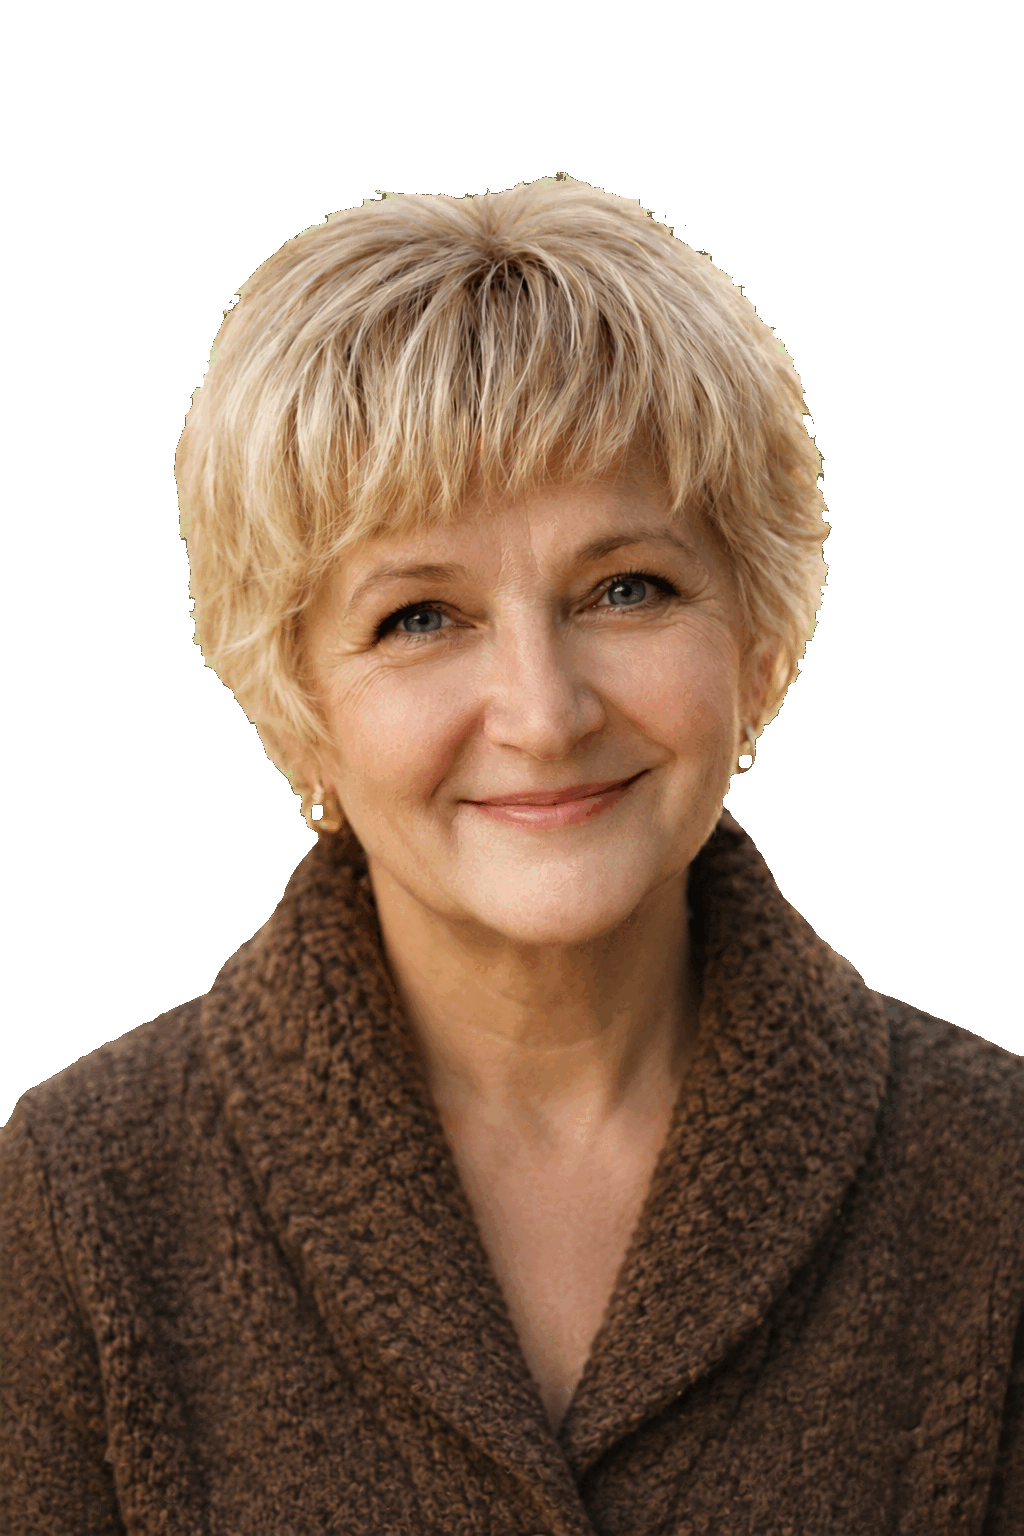
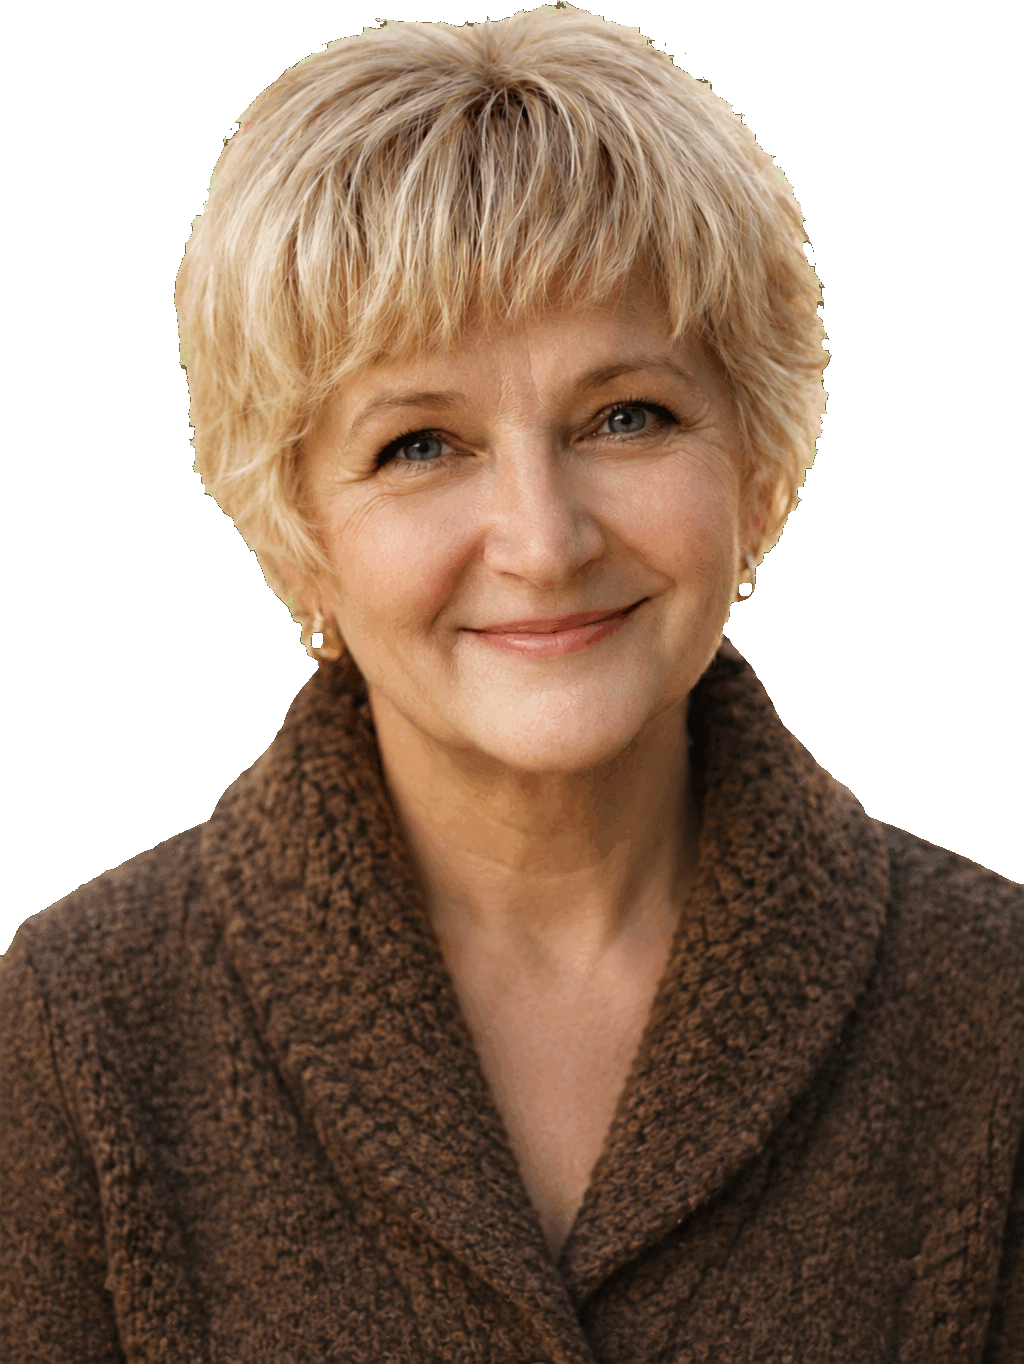
Заполнить фотоблок портретом

diff --git a/index.html b/index.html
@@ -104,7 +104,7 @@
       border-radius: 28px;
       background-image: url('photo.jpg.png');
       background-color: #F7E8EE;
-      background-size: auto 112%;
+      background-size: contain;
       background-position: center bottom;
       background-repeat: no-repeat;
       box-shadow: 0 24px 64px rgba(200,82,122,0.25);
